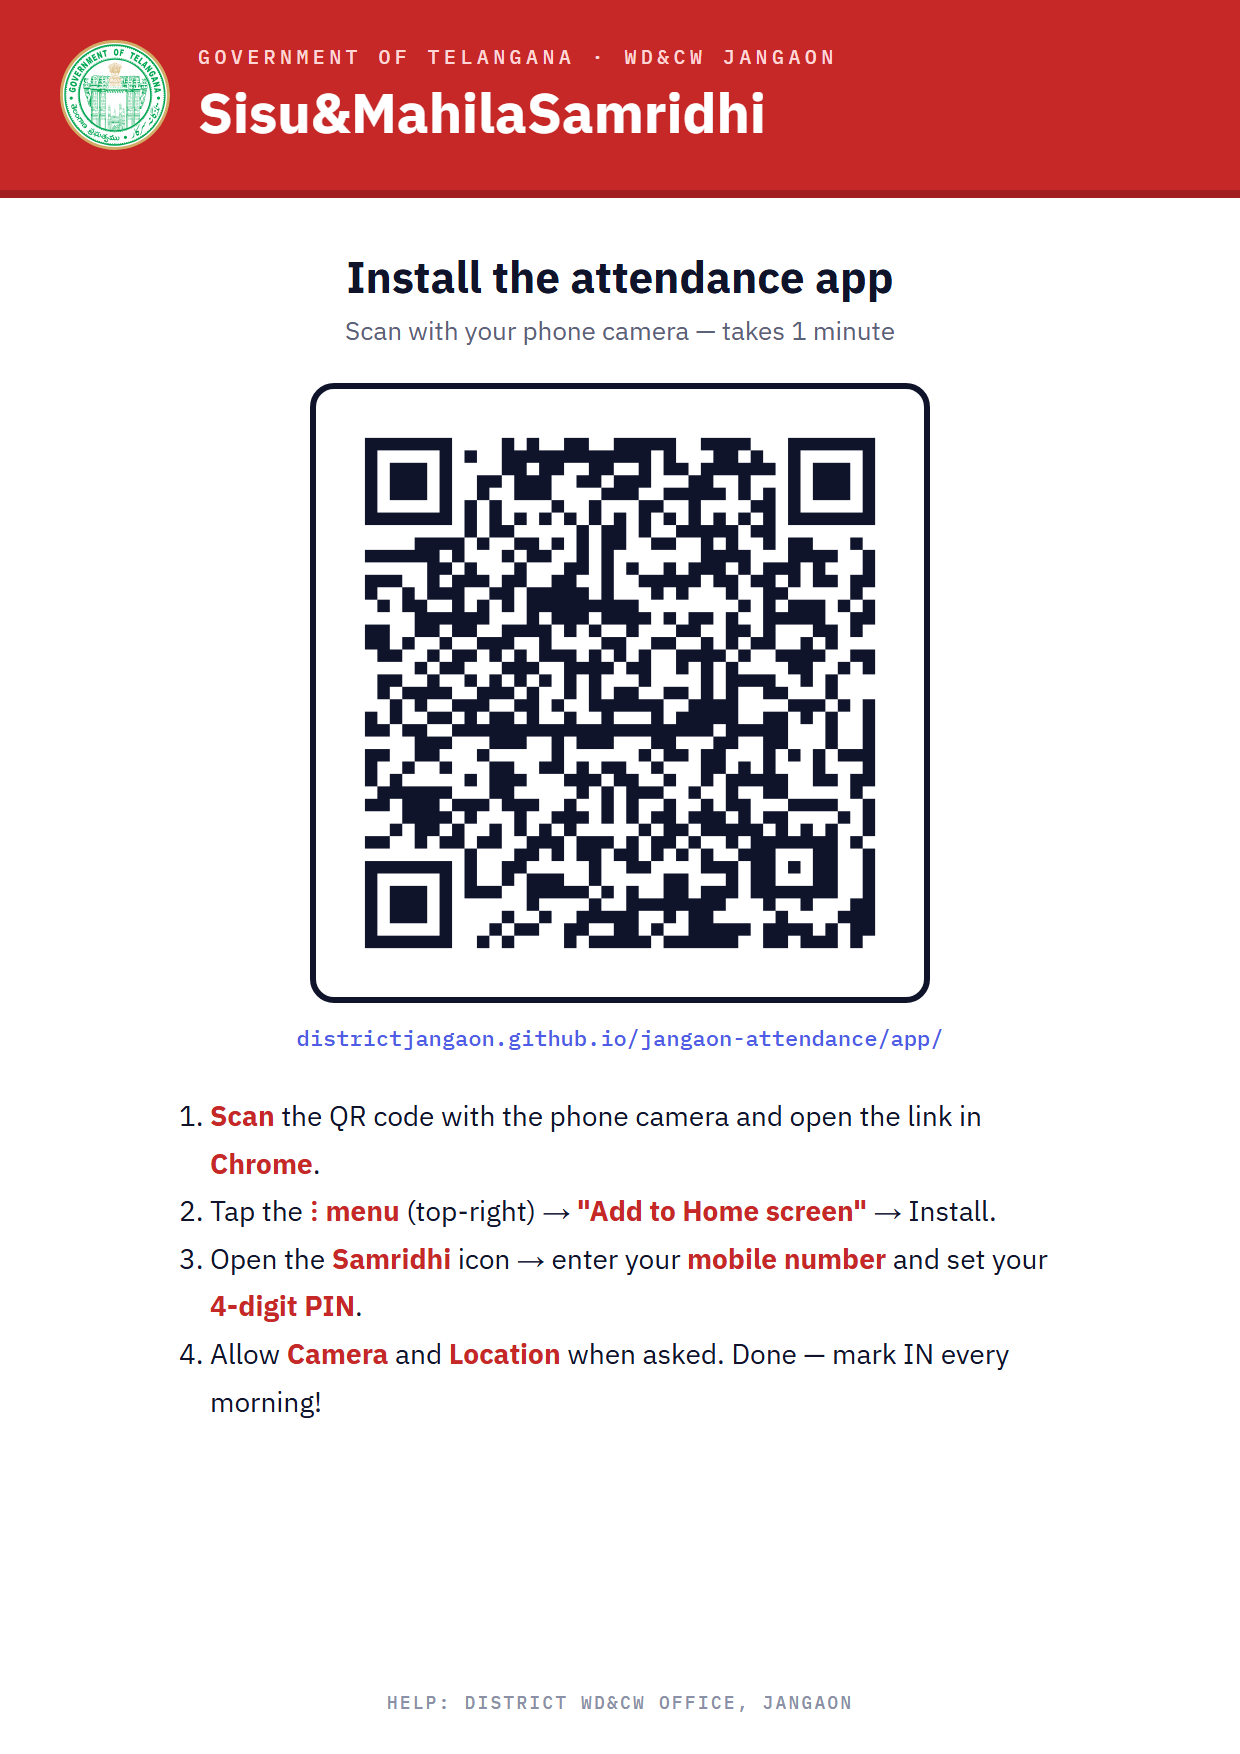
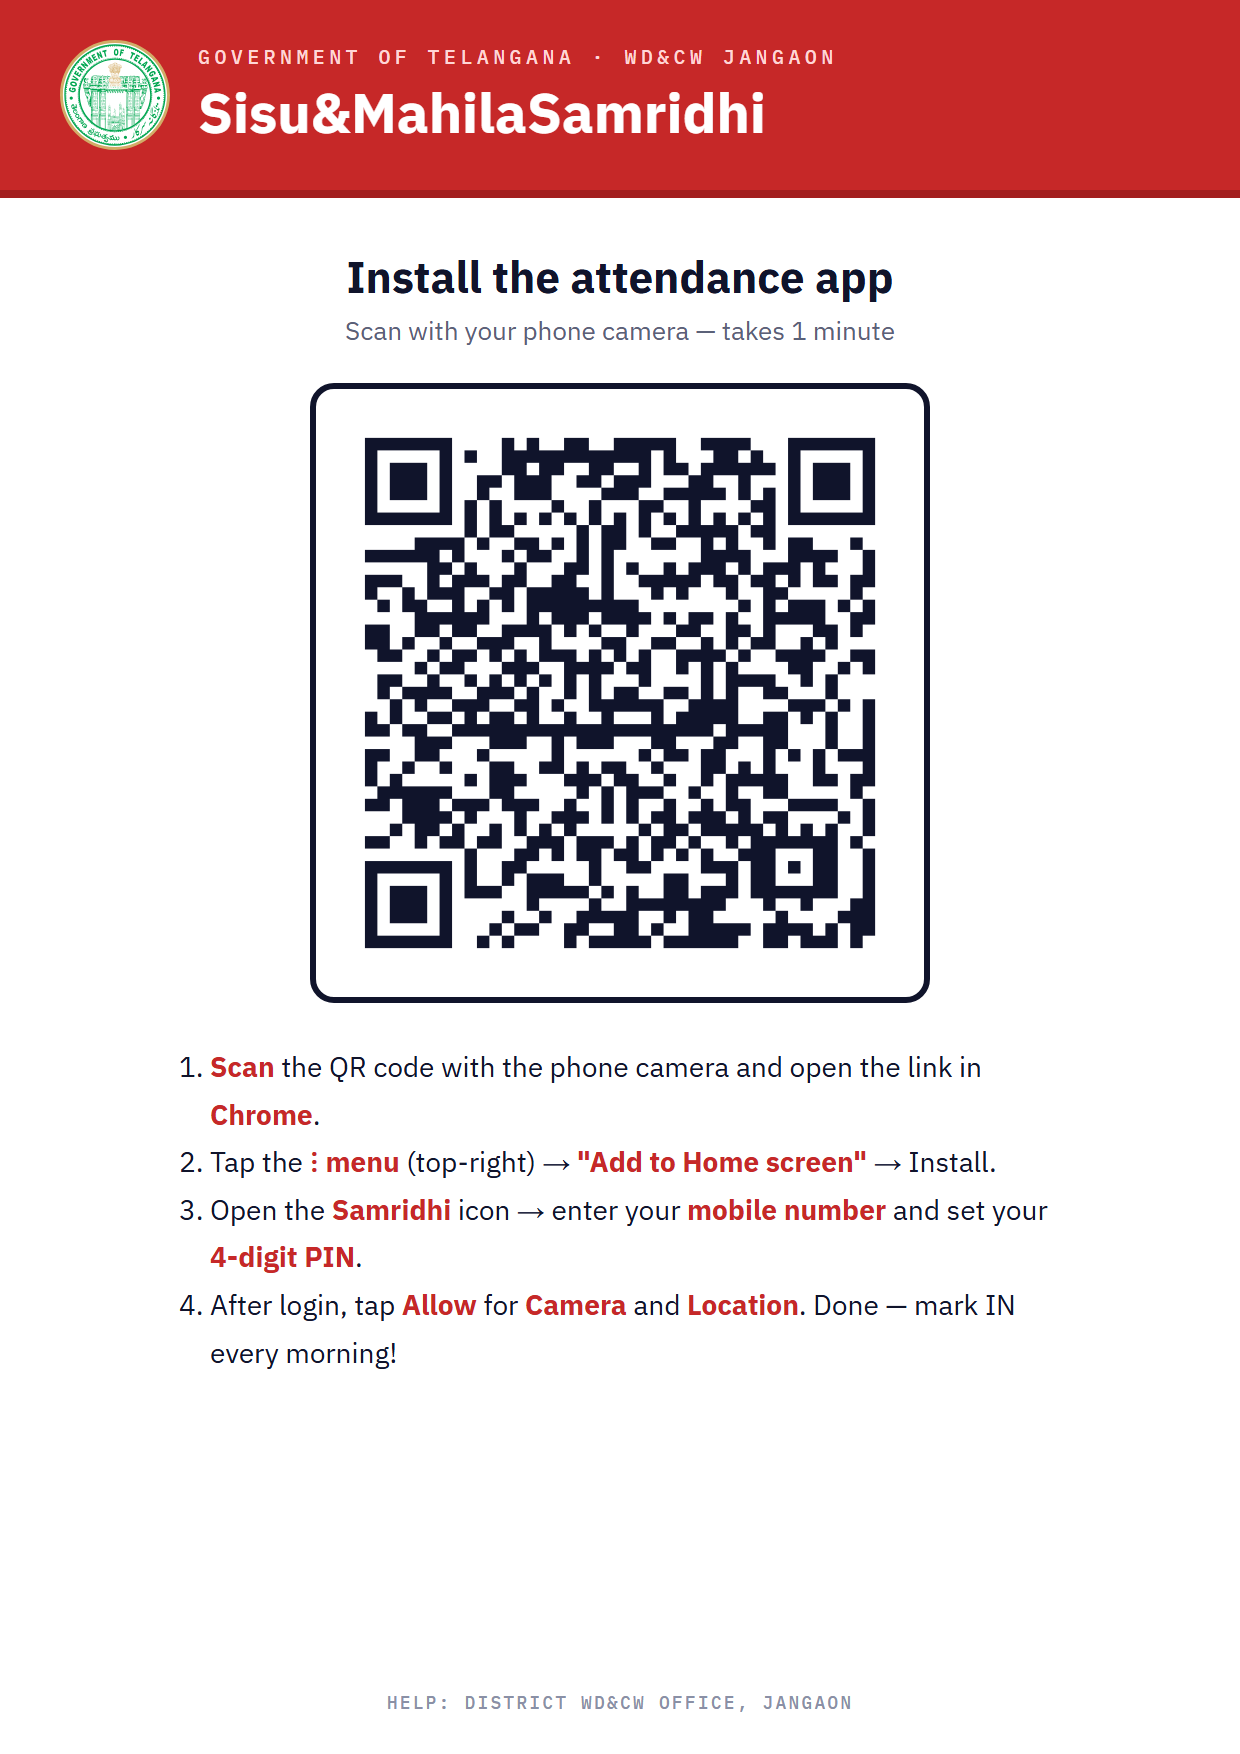
ux: prime camera+location permissions after first login; poster drops URL (v2.9)
primePermissions() requests camera then GPS once per device right after a
successful login, so the first real mark is never interrupted by permission
popups (denial still degrades gracefully). Install poster regenerated
without the visible URL line; step 4 reflects the login-time prompts. SW v28.

Changed region(s): [[0.1532, 0.5849, 0.8274, 0.8005]]

diff --git a/app/js/app.js b/app/js/app.js
@@ -375,6 +375,7 @@ const App = (() => {
         activeUid = uid;
         await saveAccounts();
         resetLogin();
+        await primePermissions();
         await goHome();
         Sync.schedule('login');
         return;
@@ -405,6 +406,25 @@ const App = (() => {
     } finally {
       setBusy('btn-login', false);
     }
+  }
+
+  /**
+   * Ask for camera + location up front, right after the first login on this
+   * device, so the first real attendance mark is never interrupted by
+   * permission popups. One-time; denial never blocks anything — the marking
+   * flow already degrades gracefully (NO_PHOTO / GPS UNVERIFIED).
+   */
+  async function primePermissions() {
+    if (await DB.kvGet('permsPrimed')) return;
+    await DB.kvSet('permsPrimed', 1);
+    try {
+      const s = await navigator.mediaDevices.getUserMedia({ video: true });
+      s.getTracks().forEach(t => t.stop());
+    } catch (e) { /* denied or no camera: fine */ }
+    try {
+      await new Promise(res => navigator.geolocation.getCurrentPosition(
+        () => res(), () => res(), { timeout: 8000, maximumAge: 60000 }));
+    } catch (e) { /* no geolocation API: fine */ }
   }
 
   async function doLogout() {

diff --git a/app/sw.js b/app/sw.js
@@ -7,7 +7,7 @@
  * here; the capture/online/foreground triggers cover real usage, and records
  * are never lost either way (they wait in IndexedDB for the next open).
  */
-const CACHE = 'attendance-v27';
+const CACHE = 'attendance-v28';
 const FONT_CACHE = 'attendance-fonts-v1';
 const FONT_ORIGINS = ['https://fonts.googleapis.com', 'https://fonts.gstatic.com'];
 const SHELL = [

diff --git a/app/index.html b/app/index.html
@@ -242,7 +242,7 @@
     <button id="btn-menu-back" class="btn btn-plain">Back</button>
   </section>
 
-  <footer class="build-tag">BUILD: v2.8-20260816-2215</footer>
+  <footer class="build-tag">BUILD: v2.9-20260816-2245</footer>
 
   <script src="js/config.js"></script>
   <script src="js/db.js"></script>
